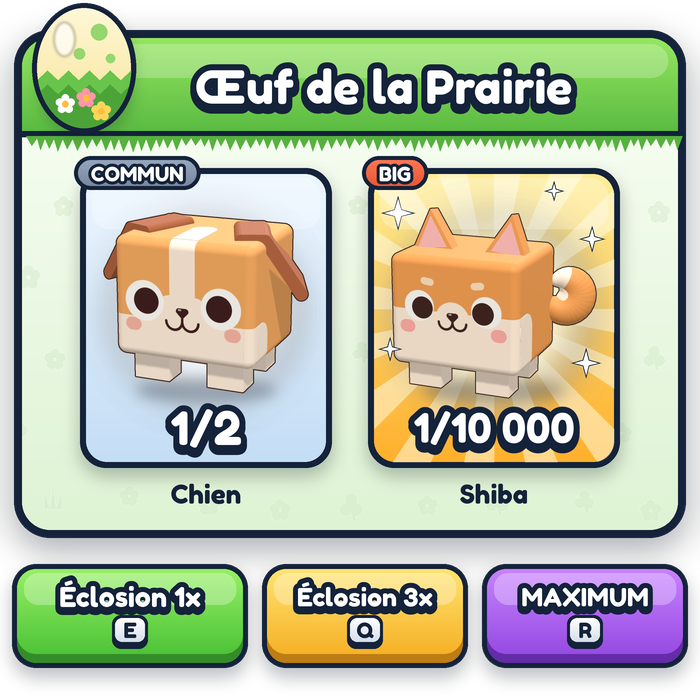
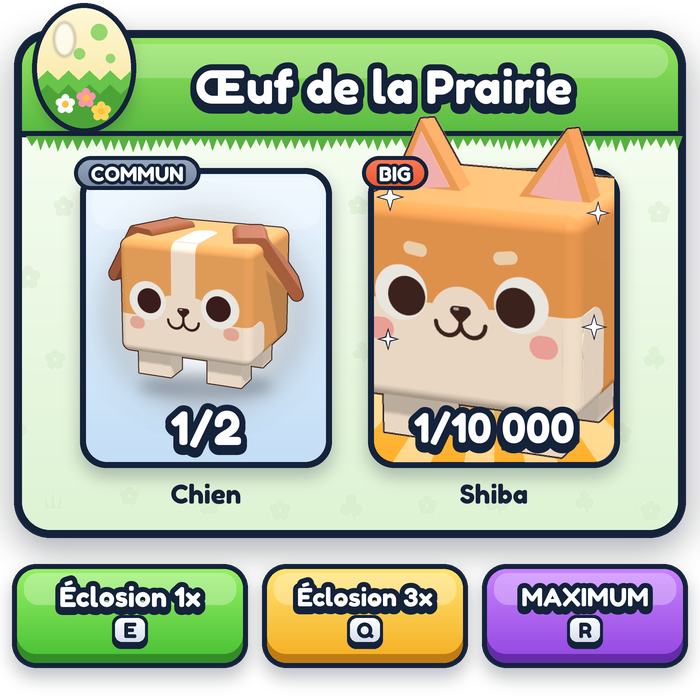
Make the BIG Shiba fill its egg tile
In the Oeuf de la Prairie panel (and the icon card) the BIG Shiba now
takes the whole tile width, with its ears breaking out of the frame, to
show it is bigger than the common dog.

Claude-Session: https://claude.ai/code/session_01BiAVv3M1LHTXn1a7j4CW8y

diff --git a/roblox/CubePets/README.md b/roblox/CubePets/README.md
@@ -8,7 +8,7 @@ En rareté **BIG**, un pet est simplement agrandi ×2 avec `pet:ScaleTo(2)`, dep
 
 ![Shiba BIG ×2 à côté du chien normal](preview/comparaison_big.png)
 
-La colonne de droite montre l'affichage de l'œuf « Œuf de la Prairie » : le chien basique (commun) à 1/2 et le Shiba BIG à 1/10 000. L'UI seule est aussi disponible dans `preview/oeuf_prairie.png`.
+La colonne de droite montre l'affichage de l'œuf « Œuf de la Prairie » : le chien basique (commun) à 1/2 et le Shiba BIG à 1/10 000. Le Shiba BIG remplit toute sa case, et ses oreilles dépassent du cadre pour bien montrer qu'il est plus gros. L'UI seule est aussi disponible dans `preview/oeuf_prairie.png`.
 
 Les pets sont faits **uniquement de pièces Roblox + une SurfaceGui pour le visage** : aucun mesh ni aucune image à uploader. Tu glisses le fichier dans Studio et c'est prêt.
 
